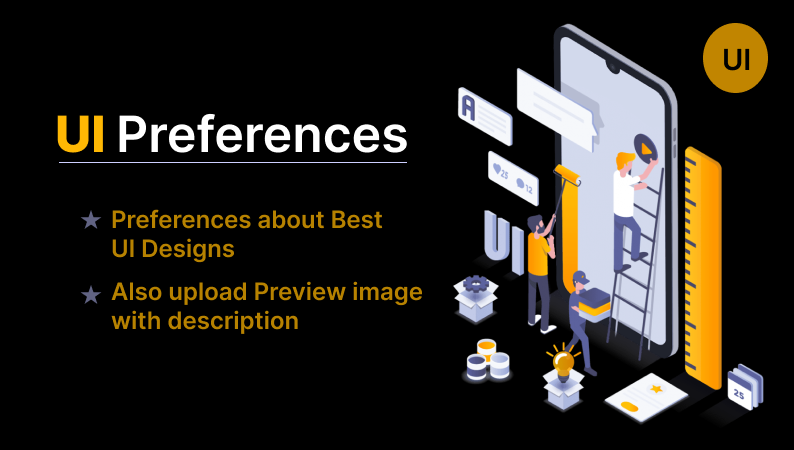
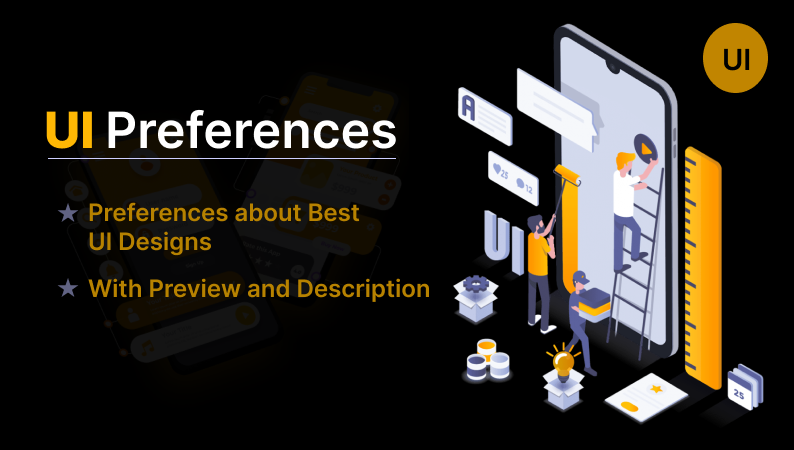
Readme.md

Changed region(s): [[0.0605, 0.2489, 0.5139, 0.3733], [0.0605, 0.4356, 0.4836, 0.5911], [0.0605, 0.6222, 0.5441, 0.7467]]

diff --git a/Clear history-1/index.html b/Clear history-1/index.html
@@ -17,4 +17,5 @@
         </div>
     </div>
 </body>
+
 </html>

diff --git a/README.md b/README.md
@@ -1,0 +1,4 @@
+
+
+![Preview](./assets/images/Preview.png)
+
